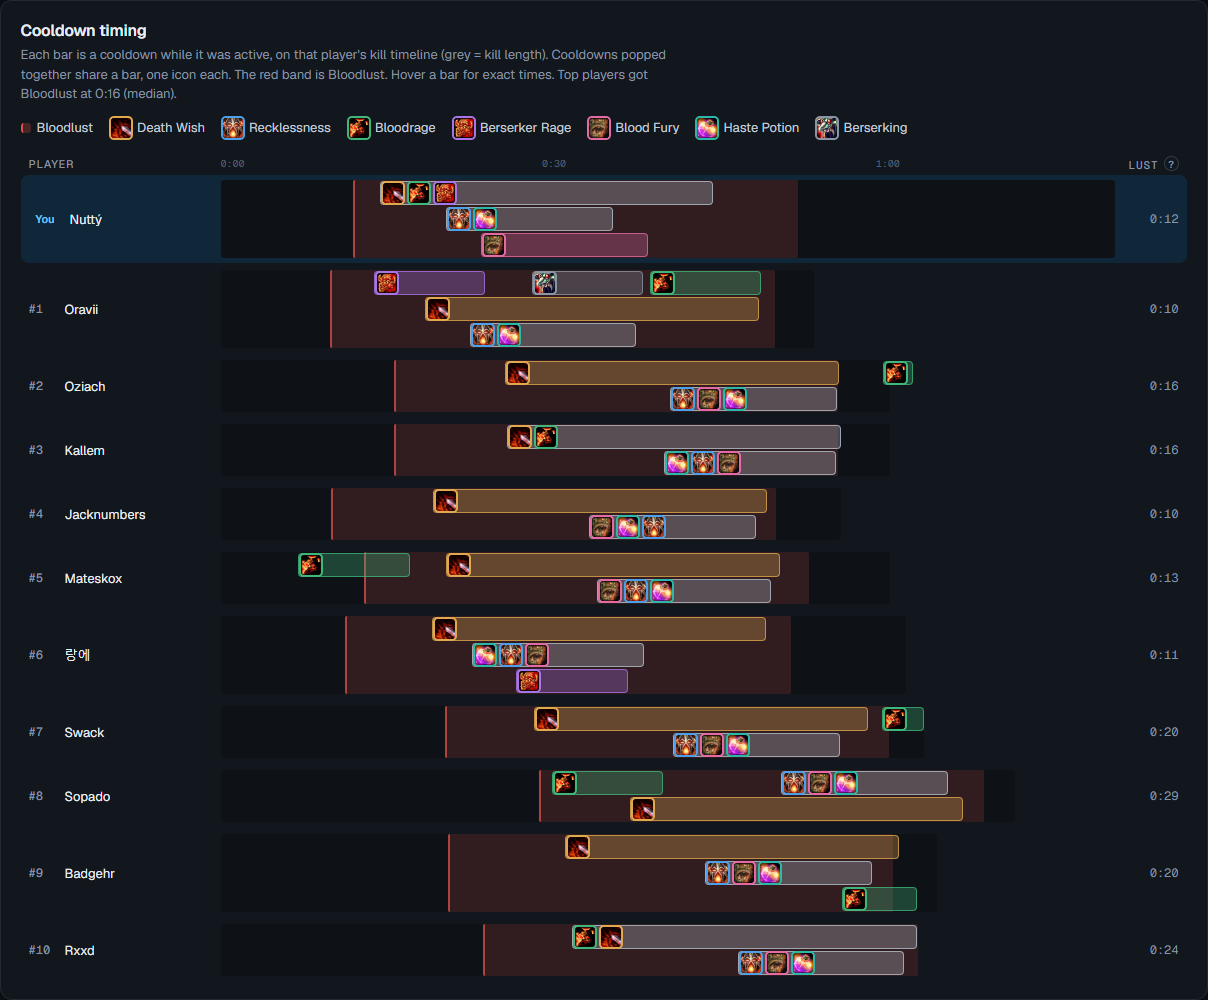
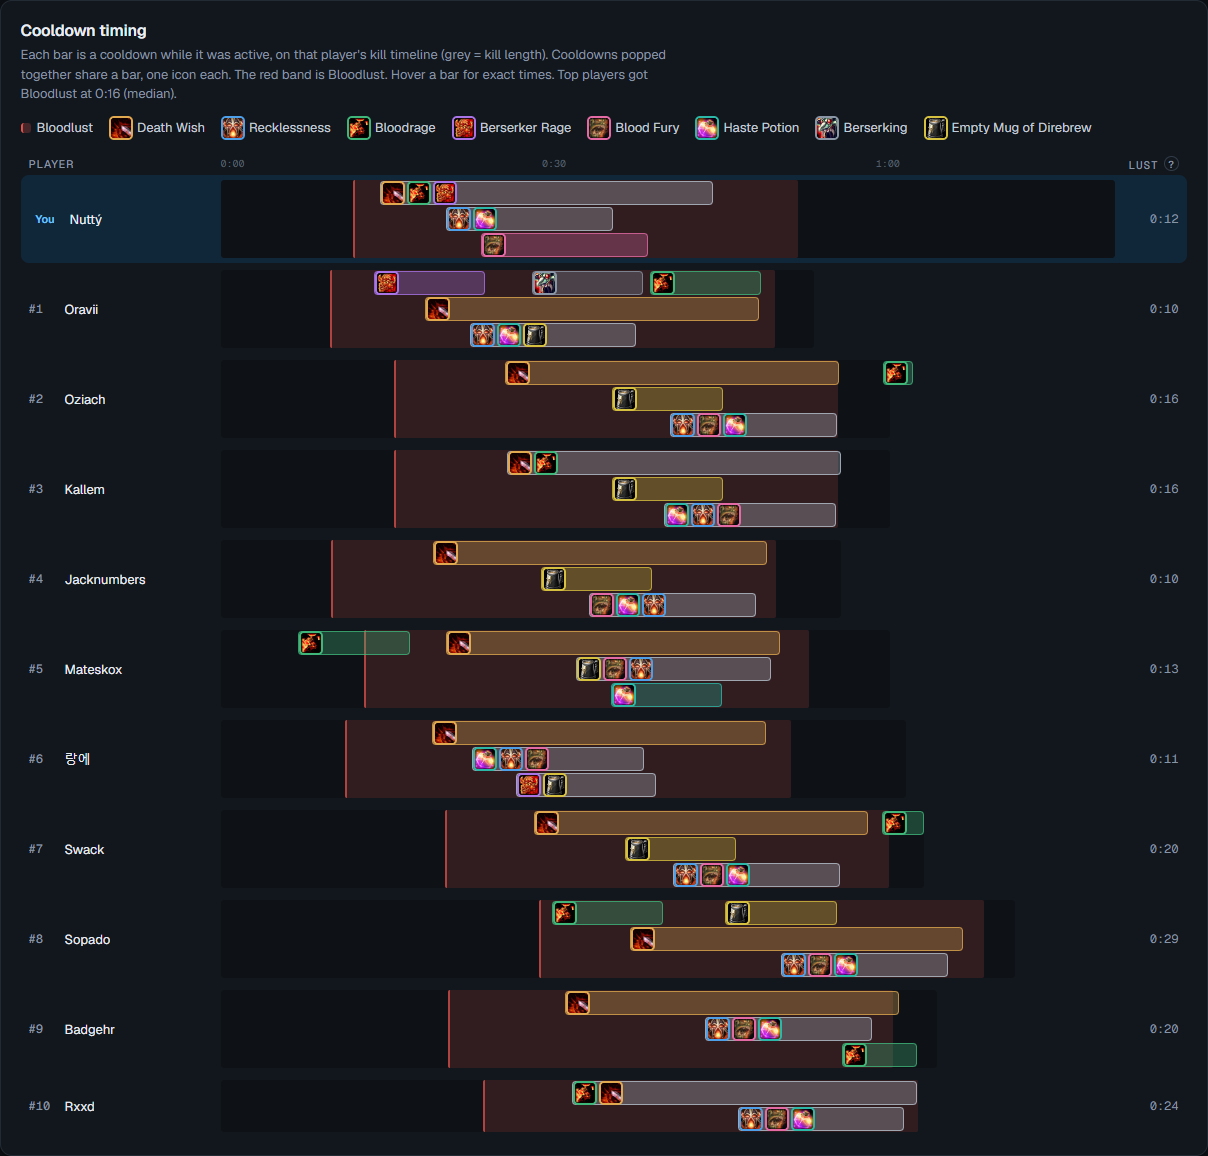
Parse Mirror v0.3.4: Empty Mug of Direbrew er en trinket, ikke alkohol (#29)
- **Dire Drunkard** er on-use fra trinketten Empty Mug of Direbrew (62
af 62 spillere med buffen bærer den, 0 af 59 uden), så den tæller ikke
længere som en consume. Den vises under cooldowns for fysiske DPS-specs,
og uden trinketten kommer der en note om gear.
- **Tabellen over alle spillere** samler nu alkohol i én række som
tabellen over den.
- Skærmbillederne af cooldowns, consumables og hunter er taget igen.

DPS, sim og gear er sammenlignet med før og uændrede; kun consumes,
cooldowns og fund er ændret. Kræver ikke i sig selv en ny Windows-pakke.

🤖 Generated with [Claude Code](https://claude.com/claude-code)

diff --git a/tools/parse-mirror/server/data/consumes.ts b/tools/parse-mirror/server/data/consumes.ts
@@ -38,12 +38,12 @@ const OTHER_CASTS: Record<string, { name: string; conjuredId?: number; flag?: Fl
   'Flame Cap': { name: 'Flame Cap', conjuredId: 22788 },
   'Nightmare Seed': { name: 'Nightmare Seed', flag: 'nightmareSeed' },
   'Fury of the Bogling': { name: 'Bogling Root', flag: 'boglingRoot' },
-  'Dire Drunkard': { name: 'Alcohol (Dire Drunkard)' },
   // Same mana and shared cooldown; WoWSims only has the Demonic Rune.
   'Dark Rune': { name: 'Dark Rune', conjuredId: 12662 },
   'Demonic Rune': { name: 'Demonic Rune', conjuredId: 12662 },
-  // Not here: "Dark Iron Pipeweed" and "Hopped Up" are the on-use buffs of the trinkets Dark Iron
-  // Smoking Pipe and Direbrew Hops, which WoWSims sims from the player's gear.
+  // Not here: "Dark Iron Pipeweed", "Hopped Up" and "Dire Drunkard" are the on-use buffs of the
+  // trinkets Dark Iron Smoking Pipe, Direbrew Hops and Empty Mug of Direbrew, which WoWSims sims
+  // from the player's gear.
 };
 
 const SCROLLS: Record<number, { name: string; sim: Flag }> = {
@@ -168,7 +168,7 @@ export function detectConsumes(input: ConsumeInput): DetectedConsumes {
     if (guardian) add('Guardian Elixir', guardian.name, { simId: guardian.id });
     if (b.name === 'Scourgebane Draught' || b.name === 'Scourgebane Infusion') add('Battle Elixir', b.name);
     if (OTHER_ELIXIRS[b.name] && !battle && !guardian) add(OTHER_ELIXIRS[b.name], b.name);
-    if (/Stout|Brew|Ale|Drunk/.test(b.name) && !/Drums/.test(b.name)) add('Other', `Alcohol (${b.name})`);
+    if (/Stout|Brew|Ale|Drunk/.test(b.name) && !/Drums/.test(b.name) && b.name !== 'Dire Drunkard') add('Other', `Alcohol (${b.name})`);
 
     if (b.name === 'Well Fed') {
       const food = WELL_FED[b.id];

diff --git a/tools/parse-mirror/web/src/components/Consumes.tsx b/tools/parse-mirror/web/src/components/Consumes.tsx
@@ -20,7 +20,7 @@ const STATUS: Record<Status, { label: string; pill: string }> = {
   none: { label: '—', pill: '' },
 };
 const ORDER: Status[] = ['missing', 'elixirs', 'different', 'same', 'extra', 'none'];
-// Every alcohol (Kreeg's Stout Beatdown, Dire Drunkard...) shares one row.
+// Every alcohol (Kreeg's Stout Beatdown...) shares one row.
 const otherKey = (name: string) => (name.startsWith('Alcohol') ? 'Alcohol' : name);
 
 /** Consumables per category: yours vs what the group you're compared with used, differences first. */
@@ -168,7 +168,7 @@ function Matrix({ analysis, categories }: { analysis: AnalysisResult; categories
         </thead>
         <tbody>
           {categories.map((cat) => {
-            const usesOf = (p: (typeof players)[number]) => p.consumes.filter((c) => c.category === cat || (c.category === 'Other' && c.name === cat));
+            const usesOf = (p: (typeof players)[number]) => p.consumes.filter((c) => c.category === cat || (c.category === 'Other' && otherKey(c.name) === cat));
             const count = analysis.top.filter((p) => usesOf(p).length).length;
             return (
               <tr key={cat}>

diff --git a/tools/parse-mirror/server/specs/hunter.ts b/tools/parse-mirror/server/specs/hunter.ts
@@ -39,8 +39,8 @@ const hunterBase: Omit<SpecConfig, 'key' | 'specName' | 'wcl' | 'talentPresets'>
   efficiency: [{ name: 'Kill Command', cooldownSec: 5 }],
   gcdAbilities: ['Arcane Shot', 'Multi-Shot', 'Serpent Sting', "Hunter's Mark", 'Aspect of the Hawk', 'Aspect of the Viper', 'Misdirection', 'Volley'],
   gcdSec: 1.5,
-  cooldowns: ['Bestial Wrath', 'Rapid Fire', 'Readiness', 'Blood Fury', 'Berserking', 'Haste', 'Restore Mana'],
-  castLabels: { Haste: 'Haste Potion', 'Restore Mana': 'Super Mana Potion' },
+  cooldowns: ['Bestial Wrath', 'Rapid Fire', 'Readiness', 'Blood Fury', 'Berserking', 'Haste', 'Restore Mana', 'Dire Drunkard'],
+  castLabels: { 'Dire Drunkard': 'Empty Mug of Direbrew', Haste: 'Haste Potion', 'Restore Mana': 'Super Mana Potion' },
   uptimes: ['Rapid Fire', 'The Beast Within', 'Quick Shots', 'Bloodlust', 'Drums of Battle'],
   expectedAbilities: [],
   // Ranged special shots miss 8% against a level 73 boss in WoWSims; Surefooted adds 1% per point.

diff --git a/tools/parse-mirror/server/sim/environment.ts b/tools/parse-mirror/server/sim/environment.ts
@@ -21,7 +21,8 @@ export const STAT = { spellDamage: 5, spellCritRating: 13, spirit: 16, attackPow
 // That ignores burst alignment (these are usually popped with Bloodlust), so it's slightly low.
 const STAT_BUFFS: Record<number, { name: string; stats: Partial<Record<keyof typeof STAT, number>>; consumable?: boolean }> = {
   31732: { name: 'Rallying Cry', stats: { attackPower: 165 } }, // Hyjal NPC buff
-  // Not trinket buffs like Dark Iron Pipeweed (Dark Iron Smoking Pipe) or Hopped Up (Direbrew
+  // Not trinket buffs like Dark Iron Pipeweed (Dark Iron Smoking Pipe), Dire Drunkard (Empty Mug of
+  // Direbrew) or Hopped Up (Direbrew
   // Hops): WoWSims has those trinkets and sims them from the gear, so adding them would count twice.
   29308: { name: 'Power Surge', stats: { spellDamage: 25 }, consumable: true }, // Power Core
   43722: { name: 'Enlightened', stats: { spellCritRating: 20, spirit: 20 }, consumable: true },

diff --git a/tools/parse-mirror/server/specs/rogue-combat.ts b/tools/parse-mirror/server/specs/rogue-combat.ts
@@ -26,8 +26,8 @@ export const rogueCombat: SpecConfig = {
   efficiency: [],
   gcdAbilities: ['Sinister Strike', 'Slice and Dice', 'Rupture', 'Eviscerate', 'Expose Armor', 'Shiv', 'Backstab', 'Hemorrhage', 'Feint'],
   gcdSec: 1,
-  cooldowns: ['Adrenaline Rush', 'Blade Flurry', 'Blood Fury', 'Berserking', 'Arcane Torrent', 'Haste', 'Restore Energy'],
-  castLabels: { Haste: 'Haste Potion', 'Restore Energy': 'Thistle Tea' },
+  cooldowns: ['Adrenaline Rush', 'Blade Flurry', 'Blood Fury', 'Berserking', 'Arcane Torrent', 'Haste', 'Restore Energy', 'Dire Drunkard'],
+  castLabels: { 'Dire Drunkard': 'Empty Mug of Direbrew', Haste: 'Haste Potion', 'Restore Energy': 'Thistle Tea' },
   uptimes: ['Slice and Dice', 'Adrenaline Rush', 'Blade Flurry', 'Bloodlust', 'Drums of Battle'],
   debuffUptimes: ['Expose Armor', 'Rupture'],
   expectedAbilities: [],

diff --git a/tools/parse-mirror/server/specs/warrior-fury.ts b/tools/parse-mirror/server/specs/warrior-fury.ts
@@ -41,8 +41,8 @@ export const warriorFury: SpecConfig = {
     'Thunder Clap',
   ],
   gcdSec: 1.5,
-  cooldowns: ['Death Wish', 'Recklessness', 'Bloodrage', 'Berserker Rage', 'Blood Fury', 'Berserking', 'Haste', 'Insane Strength'],
-  castLabels: { Haste: 'Haste Potion', 'Insane Strength': 'Insane Strength Potion' },
+  cooldowns: ['Death Wish', 'Recklessness', 'Bloodrage', 'Berserker Rage', 'Blood Fury', 'Berserking', 'Haste', 'Insane Strength', 'Dire Drunkard'],
+  castLabels: { 'Dire Drunkard': 'Empty Mug of Direbrew', Haste: 'Haste Potion', 'Insane Strength': 'Insane Strength Potion' },
   uptimes: ['Flurry', 'Rampage', 'Death Wish', 'Recklessness', 'Bloodlust', 'Drums of Battle', 'Battle Shout'],
   expectedAbilities: ['Execute'],
   executeSpellId: 20647,

diff --git a/tools/parse-mirror/server/specs/shaman-enhancement.ts b/tools/parse-mirror/server/specs/shaman-enhancement.ts
@@ -57,8 +57,8 @@ export const shamanEnhancement: SpecConfig = {
     'Heroism',
   ],
   gcdSec: 1.5,
-  cooldowns: ['Shamanistic Rage', 'Bloodlust', 'Heroism', 'Fire Elemental Totem', 'Blood Fury', 'Berserking', 'Haste', 'Insane Strength'],
-  castLabels: { Haste: 'Haste Potion', 'Insane Strength': 'Insane Strength Potion' },
+  cooldowns: ['Shamanistic Rage', 'Bloodlust', 'Heroism', 'Fire Elemental Totem', 'Blood Fury', 'Berserking', 'Haste', 'Insane Strength', 'Dire Drunkard'],
+  castLabels: { 'Dire Drunkard': 'Empty Mug of Direbrew', Haste: 'Haste Potion', 'Insane Strength': 'Insane Strength Potion' },
   uptimes: ['Flurry', 'Shamanistic Rage', 'Bloodlust', 'Heroism', 'Drums of Battle'],
   debuffUptimes: ['Flame Shock'],
   expectedAbilities: [],

diff --git a/tools/parse-mirror/server/specs/druid-feral.ts b/tools/parse-mirror/server/specs/druid-feral.ts
@@ -25,8 +25,8 @@ export const druidFeral: SpecConfig = {
   efficiency: [],
   gcdAbilities: ['Shred', 'Mangle (Cat)', 'Rip', 'Ferocious Bite', 'Rake', 'Faerie Fire (Feral)', 'Cat Form', "Tiger's Fury"],
   gcdSec: 1,
-  cooldowns: ['Haste', 'Insane Strength', 'Blood Fury', 'Berserking', 'Innervate'],
-  castLabels: { Haste: 'Haste Potion', 'Insane Strength': 'Insane Strength Potion' },
+  cooldowns: ['Haste', 'Insane Strength', 'Blood Fury', 'Berserking', 'Innervate', 'Dire Drunkard'],
+  castLabels: { 'Dire Drunkard': 'Empty Mug of Direbrew', Haste: 'Haste Potion', 'Insane Strength': 'Insane Strength Potion' },
   uptimes: ['Clearcasting', 'Bloodlust', 'Drums of Battle'],
   debuffUptimes: ['Rip', 'Mangle (Cat)'],
   expectedAbilities: [],

diff --git a/tools/parse-mirror/server/specs/warrior-arms.ts b/tools/parse-mirror/server/specs/warrior-arms.ts
@@ -30,7 +30,8 @@ export const warriorArms: SpecConfig = {
     { name: 'Whirlwind', cooldownSec: 10 },
   ],
   gcdAbilities: [...warriorFury.gcdAbilities, 'Sweeping Strikes'],
-  cooldowns: ['Death Wish', 'Recklessness', 'Sweeping Strikes', 'Bloodrage', 'Berserker Rage', 'Blood Fury', 'Berserking', 'Haste', 'Insane Strength'],
+  cooldowns: ['Death Wish', 'Recklessness', 'Sweeping Strikes', 'Bloodrage', 'Berserker Rage', 'Blood Fury', 'Berserking', 'Haste', 'Insane Strength', 'Dire Drunkard'],
+  castLabels: { 'Dire Drunkard': 'Empty Mug of Direbrew' },
   uptimes: ['Flurry', 'Death Wish', 'Recklessness', 'Bloodlust', 'Drums of Battle', 'Battle Shout'],
   debuffUptimes: ['Mortal Strike'],
   expectedAbilities: ['Execute'],

diff --git a/tools/parse-mirror/server/specs/paladin-retribution.ts b/tools/parse-mirror/server/specs/paladin-retribution.ts
@@ -51,8 +51,8 @@ export const paladinRetribution: SpecConfig = {
     'Greater Blessing of Kings',
   ],
   gcdSec: 1.5,
-  cooldowns: ['Avenging Wrath', 'Blood Fury', 'Berserking', 'Arcane Torrent', 'Haste', 'Insane Strength'],
-  castLabels: { Haste: 'Haste Potion', 'Insane Strength': 'Insane Strength Potion' },
+  cooldowns: ['Avenging Wrath', 'Blood Fury', 'Berserking', 'Arcane Torrent', 'Haste', 'Insane Strength', 'Dire Drunkard'],
+  castLabels: { 'Dire Drunkard': 'Empty Mug of Direbrew', Haste: 'Haste Potion', 'Insane Strength': 'Insane Strength Potion' },
   uptimes: ['Avenging Wrath', 'Vengeance', 'Bloodlust', 'Drums of Battle'],
   debuffUptimes: ['Judgement of the Crusader'],
   expectedAbilities: [],

diff --git a/tools/parse-mirror/server/analysis/findings.ts b/tools/parse-mirror/server/analysis/findings.ts
@@ -33,6 +33,7 @@ const MAJOR_COOLDOWNS = ['Death Wish', 'Recklessness', 'Arcane Power'];
 const TRINKET_COOLDOWNS: Record<string, { item: string; ids: number[] }> = {
   'Blessing of the Silver Crescent': { item: 'Icon of the Silver Crescent', ids: [29370] },
   'Dark Iron Smoking Pipe': { item: 'Dark Iron Smoking Pipe', ids: [281735] },
+  'Empty Mug of Direbrew': { item: 'Empty Mug of Direbrew', ids: [281739] },
 };
 
 // Rage generators whose timing is about rage, not burst windows.

diff --git a/tools/parse-mirror/docs/arkitektur.md b/tools/parse-mirror/docs/arkitektur.md
@@ -267,7 +267,7 @@ gav de samme tal; kun rankings (rang ±1) var friskere end serverens cachede.
 - **`environment.ts`** oversætter buffs og debuffs fra loggen til WoWSims' raid/party/individual
   buffs og debuffs, plus mana fra andre (Innervate, Mana Tide, Vampiric Touch). Buffs WoWSims ikke
   kender (Rallying Cry, Power Core...) lægges til som stats vægtet med uptime. Trinkets' on-use buffs
-  (Dark Iron Pipeweed fra Dark Iron Smoking Pipe, Hopped Up fra Direbrew Hops) gør ikke: WoWSims
+  (Dark Iron Pipeweed fra Dark Iron Smoking Pipe, Dire Drunkard fra Empty Mug of Direbrew, Hopped Up fra Direbrew Hops) gør ikke: WoWSims
   simmer selve trinket'en fra gearet.
 - **`scenarios.ts`** kører what-ifs og execution:
   - *Your setup* (dit eget), *consumes* (gruppens mest brugte, byttet ind pr. kategori; flask og
